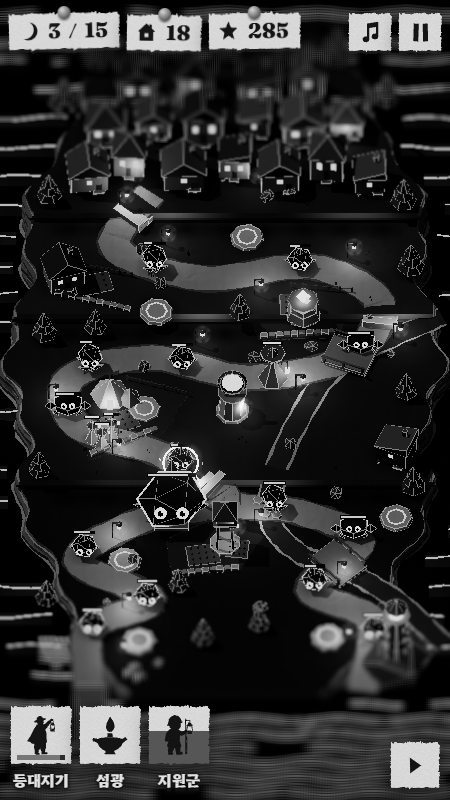
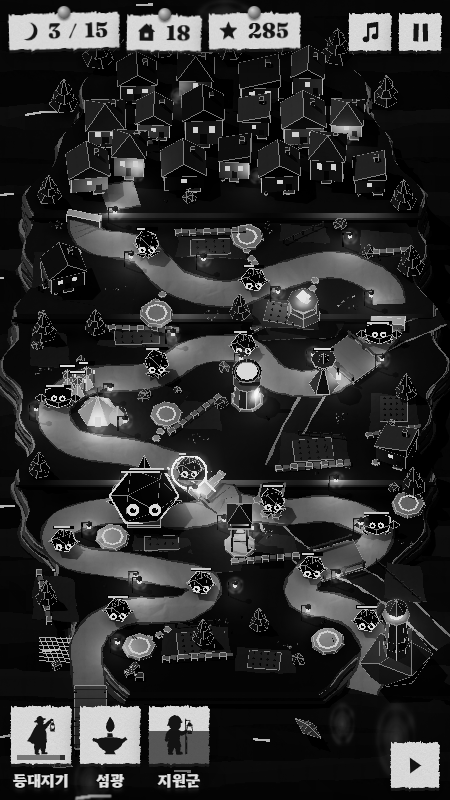
Stage 1 pass 3: navy folded-paper sea, tilt-shift only on the sea margins, ground detail, organic road, DESIGN.md section 3

diff --git a/src/board.js b/src/board.js
@@ -18,10 +18,10 @@ const C = { navy: 0x1d2742, navy2: 0x243050, navy3: 0x2a3757, field: 0x26384a, k
 const Z0 = -21.5, Z1 = 11.4, STEP = [0.8, -7.2, -12.2];                       // island from back to shore; the terraces rise at these lines
 const hAt = z => (z > STEP[0] ? 0 : z > STEP[1] ? 0.5 : z > STEP[2] ? 1.0 : 1.5);
 const halfW = z => { const t = clamp((z - Z0) / (Z1 - Z0)); return 8.5 * Math.pow(Math.sin(Math.PI * clamp(t * 0.93 + 0.035)), 0.4) * (1 + 0.045 * Math.sin(z * 0.85) + 0.03 * Math.sin(z * 2.3 + 1)); };
-const ROAD = [[0, 1.5], [-2.5, -0.5], [-6, -2], [-6.3, -4.5], [-3, -5.5], [1, -4.5], [5, -5.5], [6.3, -8], [3.5, -9.8], [-1, -9.2], [-4.5, -10.8], [-3, -13.2]];
-const ROUTES = [[[-5.5, 11.2], [-5.5, 8], [-3, 6.5], [-6, 4.5], [-3.5, 2.5], ...ROAD], [[5.6, 11.2], [6, 7.6], [3.5, 6], [5.5, 3.5], [3, 2], ...ROAD]];
+const ROAD = [[0, 1.5], [-1.2, 0.4], [-3.6, -0.6], [-6.2, -1.2], [-7.0, -2.9], [-5.6, -4.3], [-3.0, -4.6], [-1.2, -5.8], [0.8, -5.9], [2.2, -4.4], [4.2, -4.3], [5.4, -5.6], [6.6, -7.0], [6.4, -8.9], [4.4, -9.9], [2.0, -9.2], [0.2, -8.4], [-2.0, -9.0], [-3.4, -10.6], [-5.4, -11.2], [-5.6, -12.6], [-3.6, -13.2]];
+const ROUTES = [[[-5.5, 11.2], [-5.6, 8.6], [-4.2, 7.2], [-1.6, 6.9], [-0.9, 5.6], [-3.4, 4.9], [-6.4, 4.2], [-6.6, 2.6], [-4.2, 1.9], [-1.6, 2.2], ...ROAD], [[5.6, 11.2], [6.2, 9], [5.2, 7.2], [3.2, 6.4], [3.6, 5.0], [5.6, 4.2], [6.2, 2.9], [4.4, 1.9], [2.2, 2.0], ...ROAD]];
 const CREEK = [[8.9, -7.4], [5.2, -5.6], [3.2, -2.8], [1.8, 1.75], [2.9, 4.0], [4.55, 4.75], [6.9, 6.4], [9, 8.8]];
-const SPOTS = [[-3.5, 8.6], [4.2, 8.4], [-4.1, 4.5], [7.0, 2.3], [0, 3.6], [-3.3, -2.9], [-4.7, -3.6], [0.3, -2.8], [3.2, -7.4], [0.9, -11.3], [-2.8, -7.5]];
+const SPOTS = [[-3.5, 8.9], [4.2, 8.6], [-4.6, 3.3], [7.5, 1.6], [0.6, 3.7], [-2.4, -2.6], [-5.2, -2.7], [0.9, -3.4], [3.2, -7.4], [0.9, -11.3], [-2.8, -7.4]];
 const BUILT = { 4: 'archer', 6: 'barracks', 7: 'lens', 8: 'beacon' };
 const POSTS = [[-4.4, 9.3], [-4.2, 6.9], [-4.6, 3.3], [4.8, 8.6], [4.6, 5.3], [1.2, 2.6], [-1.4, 0.9], [-4.6, -0.6], [-7.2, -3.4], [-1.2, -6.2], [2.9, -3.9], [6.9, -6.5], [5.0, -10.3], [1.2, -8.4], [-2.6, -11.0], [-4.3, -12.6]];
 const spline = (pts, n = 8) => { const o = []; for (let i = 0; i < pts.length - 1; i++) { const p0 = pts[Math.max(0, i - 1)], p1 = pts[i], p2 = pts[i + 1], p3 = pts[Math.min(pts.length - 1, i + 2)];
@@ -32,7 +32,7 @@ export async function createStage(frame, SHAPES) {
   const renderer = new THREE.WebGLRenderer({ antialias: true, powerPreference: 'high-performance' });
   renderer.shadowMap.enabled = true; renderer.shadowMap.type = THREE.PCFSoftShadowMap; renderer.toneMapping = THREE.ACESFilmicToneMapping; renderer.toneMappingExposure = 1.0;
   frame.prepend(renderer.domElement);
-  const scene = new THREE.Scene(); scene.background = new THREE.Color(0x05070f);
+  const scene = new THREE.Scene(); scene.background = new THREE.Color(0x18274a);
   const camera = new THREE.OrthographicCamera(-HALF_W, HALF_W, 16, -16, 1, 200);
   const TL = new THREE.TextureLoader(), tex = (url, srgb, rep) => new Promise((res, rej) => TL.load(url, t => { t.wrapS = t.wrapT = THREE.RepeatWrapping; t.repeat.set(rep, rep); if (srgb) t.colorSpace = THREE.SRGBColorSpace; t.anisotropy = 8; res(t); }, undefined, rej));
   const [paper, paperN, pLight] = await Promise.all([tex('./assets/paper/Paper001_Color.jpg', true, 2.2), tex('./assets/paper/Paper003_NormalGL.jpg', false, 0.5), tex('./assets/particles/light_01.png', true, 1)]);
@@ -79,11 +79,13 @@ export async function createStage(frame, SHAPES) {
   const creek = spline(CREEK, 10); ribbon(creek, 0.5, 0.02, paperFlat(C.creamD), 3); ribbon(creek, 0.4, 0.03, paperFlat(C.water), 4);
   const lanes = ROUTES.map(r => spline(r, 9)), roadMat = paperFlat(C.road), underMat = paperFlat(C.kraftD);
   for (const L of lanes) ribbon(L, 0.7, 0.045, underMat, 21); for (const L of lanes) ribbon(L, 0.62, 0.055, roadMat, 22);
+  const nearRoad = (x, z) => { let d = 9; for (const L of lanes) for (let i = 0; i < L.length; i += 2) d = Math.min(d, Math.hypot(L[i][0] - x, L[i][1] - z)); return d; };
+  const POSTS2 = []; lanes.forEach((L, li) => { for (let i = 7 + li * 5; i < (li ? 80 : L.length - 3); i += 13) { const a = L[i - 1], b = L[i + 1], d = Math.hypot(b[0] - a[0], b[1] - a[1]) || 1, s = (Math.round(i / 13) % 2 ? 1 : -1) * 1.0; POSTS2.push([L[i][0] - (b[1] - a[1]) / d * s, L[i][1] + (b[0] - a[0]) / d * s]); } });
   const along = (L, i) => { const a = L[Math.max(0, i - 1)], b = L[Math.min(L.length - 1, i + 1)]; return Math.atan2(b[0] - a[0], b[1] - a[1]); };
   { const done = new Set(); for (const L of lanes) for (let i = 1; i < L.length; i++) for (const b of STEP) if ((L[i - 1][1] - b) * (L[i][1] - b) < 0) { const key = Math.round(L[i][0] * 10) + ':' + b; if (done.has(key)) continue; done.add(key); const g = group(L[i][0], b, along(L, i), 0), up = hAt(b - 0.3), lo = hAt(b + 0.3);   // stairs: folded steps across the road
         for (let s = 0; s < 4; s++) piece(G.box(1.36, (up - lo) / 4 * (s + 1), 0.3), C.cream, 0, lo + (up - lo) / 8 * (s + 1) + 0.03, 0.75 - s * 0.3, { to: g, rim: 0.5, crumple: 0.015 }); } }
   const bridge = (x, z, ry) => { const g = group(x, z, ry, lift(z)); piece(G.box(1.5, 0.12, 1.9), C.kraft, 0, 0.2, 0, { to: g }); for (const s of [-1, 1]) { piece(G.box(0.07, 0.07, 1.9), C.wood, s * 0.72, 0.56, 0, { to: g, fold: false }); for (const q of [-0.85, 0, 0.85]) piece(G.box(0.09, 0.42, 0.09), C.wood, s * 0.72, 0.4, q, { to: g, fold: false }); } ao(x, z, 2.4, 2.4, lift(z)); };
-  bridge(5.1, -5.55, 1.2); bridge(4.6, 4.75, 0.75);
+  bridge(5.15, -5.3, 0.75); bridge(4.6, 4.6, 1.95);
   for (const [dx, dz] of [[-0.45, -0.3], [0, 0.05], [0.42, -0.1], [-0.15, 0.4], [0.3, 0.45]]) piece(G.cyl(0.2, 0.24, 0.1, 6), C.stone, 1.8 + dx, 0.09, 1.75 + dz, { r: [0, r0() * 3, 0] });   // the ford: stepping stones
   const ringMat = new THREE.MeshBasicMaterial({ color: new THREE.Color(1.1, 0.62, 0.2), transparent: true, opacity: 0.85 }), rings = [];
   SPOTS.forEach(([x, z], i) => { const y = hAt(z); piece(G.cyl(0.62, 0.7, 0.09, 8), C.creamD, x, y + 0.05, z, { r: [0, i * 0.5, 0] }); ao(x, z, 2.2); if (BUILT[i]) return; const r = new THREE.Mesh(new THREE.RingGeometry(0.36, 0.45, 8), ringMat); r.rotation.x = -Math.PI / 2; r.position.set(x, y + 0.105, z); scene.add(r); rings.push(r); });
@@ -96,14 +98,14 @@ export async function createStage(frame, SHAPES) {
     piece(new THREE.PlaneGeometry(w * 0.18, h * 0.42), pm(C.wood), w * (lit === 1 ? 0.26 : 0), h * 0.22, d / 2 + 0.011, { to: g, cast: false }); piece(G.box(w * 0.3, 0.06, 0.16), C.stone, w * (lit === 1 ? 0.26 : 0), 0.03, d / 2 + 0.09, { to: g });
     if (r0() < 0.6) { piece(G.cyl(0.06, 0.05, 0.09, 5), C.verm, -w * 0.38, 0.05, d / 2 + 0.12, { to: g }); piece(G.ico(0.07), C.leaf2, -w * 0.38, 0.14, d / 2 + 0.12, { to: g, fold: false }); }   // a flower pot by the door
     ao(x, z, w * 2.1, d * 2.3); return g; };
-  const tree = (x, z, s = 1) => { const g = group(x, z, r0() * 3); piece(G.cyl(0.05 * s, 0.07 * s, 0.34 * s, 5), C.wood, 0, 0.17 * s, 0, { to: g, fold: false }); for (let i = 0; i < 3; i++) piece(G.cone((0.46 - i * 0.11) * s, 0.56 * s, 6), i % 2 ? C.leaf2 : C.leaf, 0, (0.56 + i * 0.33) * s, 0, { to: g, r: [0, i * 0.5, 0], crumple: 0.04 }); ao(x, z, 1.3 * s); };
+  const tree = (x, z, s = 1) => { if (nearRoad(x, z) < 1.0) return; const g = group(x, z, r0() * 3); piece(G.cyl(0.05 * s, 0.07 * s, 0.34 * s, 5), C.wood, 0, 0.17 * s, 0, { to: g, fold: false }); for (let i = 0; i < 3; i++) piece(G.cone((0.46 - i * 0.11) * s, 0.56 * s, 6), i % 2 ? C.leaf2 : C.leaf, 0, (0.56 + i * 0.33) * s, 0, { to: g, r: [0, i * 0.5, 0], crumple: 0.04 }); ao(x, z, 1.3 * s); };
   const bush = (x, z, s = 0.25) => piece(G.ico(s), C.leaf, x, hAt(z) + s * 0.5, z, { s: [1.2, 0.7, 1], r: [r0(), r0() * 3, 0], crumple: 0.04 });
   const rock = (x, z, s) => piece(G.ico(s), C.slate, x, hAt(z) + s * 0.4, z, { s: [1.1, 0.65, 0.9], r: [r0(), r0() * 3, r0()], crumple: 0.05 });
   const tuft = (x, z) => { for (let i = 0; i < 3; i++) piece(G.cone(0.05, 0.2, 3), C.leaf2, x + (r0() - 0.5) * 0.2, hAt(z) + 0.1, z + (r0() - 0.5) * 0.2, { fold: false, cast: false, r: [(r0() - 0.5) * 0.5, r0() * 3, (r0() - 0.5) * 0.5] }); };
-  const wall = (x0, z0, x1, z1) => { const n = Math.round(Math.hypot(x1 - x0, z1 - z0) / 0.3); for (let i = 0; i <= n; i++) { const t = i / n; piece(G.box(0.26, 0.16 + r0() * 0.07, 0.2), C.stone, x0 + (x1 - x0) * t, hAt(z0) + 0.09, z0 + (z1 - z0) * t, { r: [0, Math.atan2(x1 - x0, z1 - z0) + Math.PI / 2 + (r0() - 0.5) * 0.3, 0], fold: i % 2 === 0, crumple: 0.03 }); } };
+  const wall = (x0, z0, x1, z1) => { const n = Math.round(Math.hypot(x1 - x0, z1 - z0) / 0.3); for (let i = 0; i <= n; i++) { const t = i / n; if (nearRoad(x0 + (x1 - x0) * t, z0 + (z1 - z0) * t) < 0.85) continue; piece(G.box(0.26, 0.16 + r0() * 0.07, 0.2), C.stone, x0 + (x1 - x0) * t, hAt(z0) + 0.09, z0 + (z1 - z0) * t, { r: [0, Math.atan2(x1 - x0, z1 - z0) + Math.PI / 2 + (r0() - 0.5) * 0.3, 0], fold: i % 2 === 0, crumple: 0.03 }); } };
   const fence = (x0, z0, x1, z1) => { const n = Math.round(Math.hypot(x1 - x0, z1 - z0) / 0.5), ry = Math.atan2(x1 - x0, z1 - z0), y = hAt(z0); for (let i = 0; i <= n; i++) piece(G.box(0.05, 0.32, 0.05), C.wood, x0 + (x1 - x0) * i / n, y + 0.16, z0 + (z1 - z0) * i / n, { fold: false });
     piece(G.box(0.03, 0.04, Math.hypot(x1 - x0, z1 - z0)), C.wood, (x0 + x1) / 2, y + 0.24, (z0 + z1) / 2, { r: [0, ry, 0], fold: false }); };
-  const plot = (x, z, w, d, ry) => { const g = group(x, z, ry); piece(G.box(w, 0.04, d), C.kraftD, 0, 0.03, 0, { to: g }); for (let i = 0; i < 4; i++) for (let j = 0; j < Math.round(d / 0.28); j++) piece(G.cone(0.06, 0.13, 4), C.leaf2, (i - 1.5) * w * 0.22, 0.11, (j + 0.5) * 0.28 - d / 2, { to: g, fold: false, cast: false }); };
+  const plot = (x, z, w, d, ry) => { if (nearRoad(x, z) < 0.75 + Math.max(w, d) / 2) return; const g = group(x, z, ry); piece(G.box(w, 0.04, d), C.kraftD, 0, 0.03, 0, { to: g }); for (let i = 0; i < 4; i++) for (let j = 0; j < Math.round(d / 0.28); j++) piece(G.cone(0.06, 0.13, 4), C.leaf2, (i - 1.5) * w * 0.22, 0.11, (j + 0.5) * 0.28 - d / 2, { to: g, fold: false, cast: false }); };
   // village on the top terraces: houses of different sizes and roofs, close together, with alleys between
   const HC = [C.cream, C.creamD, C.kraft, C.cream], RC = [C.slate, C.verm, C.kraftD, C.navy3];
   [[-5.6, -13.9, 1.5, 1.0, 1.2, 0.1, 0], [-3.9, -14.6, 1.2, 1.5, 1.1, -0.06, 1], [-1.7, -14.0, 1.6, 1.0, 1.2, 0.05, 0], [0.4, -14.5, 1.2, 1.2, 1.1, -0.04, 2], [2.2, -13.9, 1.5, 1.1, 1.2, 0.06, 0], [4.2, -14.4, 1.3, 1.6, 1.1, -0.08, 1], [5.9, -13.8, 1.2, 0.9, 1.1, 0.04, 2],
@@ -114,9 +116,17 @@ export async function createStage(frame, SHAPES) {
     for (let i = 1; i < 6; i++) piece(G.box(0.02, 0.2 + (i % 2) * 0.06, 0.2), [C.cream, C.verm, C.creamD][i % 3], x0 + (x1 - x0) * i / 6, y - 0.12, z0 + (z1 - z0) * i / 6, { r: [0, ry, 0], fold: false }); }
   for (const [x, z] of [[-3.6, -13.6], [1.3, -13.5], [4.9, -15.5], [-1.9, -17.6]]) lamp(x, hAt(z) + 0.8, z, 3.4, 4.2);                                         // window light on the village streets
   for (const [x, z, s] of [[-7.2, -12.9, 1.1], [7.3, -12.6, 1.2], [-6.6, -17.6, 1.3], [6.6, -17.9, 1.2], [-5.2, -19.9, 1.4], [0.2, -20.3, 1.3], [4.6, -20.1, 1.4], [-2.6, -20.4, 1.2], [2.4, -20.6, 1.1], [-7.4, -6.6, 1.1], [7.6, -9.6, 1.2], [-7.6, 0.4, 1.0], [7.7, 0.9, 1.1], [-7.3, 6.6, 1.0], [1.4, 7.9, 0.9], [-0.9, 8.6, 1.0], [7.4, -3.6, 1.0], [-1.9, 5.9, 0.9], [0.6, -7.3, 1.0], [-5.3, -6.9, 1.0]]) tree(x, z, s);
-  wall(-2.0, 5.2, 0.4, 4.9); wall(-5.4, -0.6, -2.9, -1.8); wall(1.6, -6.6, 4.4, -6.8); wall(-6.8, -8.4, -4.0, -7.6); fence(-2.3, 3.5, -0.7, 2.6); fence(-1.5, -3.6, -4.0, -4.4); fence(2.7, -8.8, 5.2, -8.5); fence(-6.7, -10.0, -3.8, -9.3);
-  plot(-0.9, 4.2, 1.3, 1.0, 0.15); plot(0.5, 3.9, 0.9, 0.9, -0.1); plot(-4.3, -2.2, 1.4, 1.0, 0.4); plot(3.0, -7.9, 1.5, 1.0, 0.05); plot(-5.4, -8.9, 1.5, 1.0, 0.25);
-  for (let i = 0; i < 46; i++) { const z = Z0 + 1.5 + r0() * (Z1 - Z0 - 3), x = (r0() * 2 - 1) * (halfW(z) - 0.9); (i % 3 ? tuft : i % 2 ? bush : (a, b) => rock(a, b, 0.14 + r0() * 0.16))(x, z); }
+  const stones = (x0, z0, x1, z1) => { const n = Math.round(Math.hypot(x1 - x0, z1 - z0) / 0.42); for (let i = 0; i <= n; i++) { const x = x0 + (x1 - x0) * i / n + (r0() - 0.5) * 0.12, z = z0 + (z1 - z0) * i / n + (r0() - 0.5) * 0.12; if (nearRoad(x, z) > 0.7) piece(G.cyl(0.15, 0.17, 0.05, 6), C.creamD, x, hAt(z) + 0.03, z, { r: [0, r0() * 3, 0], cast: false, crumple: 0.02 }); } };
+  const flowers = (x, z) => { if (nearRoad(x, z) < 1.0) return; for (let i = 0; i < 9; i++) { const a = r0() * 6.283, d = r0() * 0.5; piece(G.oct(0.055), [C.creamD, C.verm, C.cream][i % 3], x + Math.cos(a) * d, hAt(z) + 0.07, z + Math.sin(a) * d * 0.8, { fold: false, cast: false, crumple: 0 }); } };
+  const GRASS = 0x304a52, CROP = 0x4a4436;
+  for (const [x, z, w, d, s] of [[-1.2, 8.6, 2.6, 1.8, 41], [1.6, 9.6, 2.2, 1.4, 42], [-7.0, 6.4, 1.6, 2.4, 43], [7.3, 5.6, 1.4, 2.0, 44], [2.0, 3.6, 1.6, 1.2, 45], [-2.6, 3.6, 2.2, 1.0, 46], [3.6, -0.8, 2.6, 1.8, 47], [-1.2, -2.6, 1.8, 1.6, 48], [6.9, -2.6, 1.8, 2.2, 49], [-3.6, -6.6, 3.0, 1.2, 50], [-7.2, -6.0, 1.4, 2.0, 51], [2.4, -7.4, 2.4, 1.6, 52], [-0.6, -10.8, 2.6, 1.2, 53], [6.6, -11.0, 2.0, 1.4, 54], [-7.0, -9.6, 1.6, 2.0, 55], [3.2, -11.5, 1.8, 1.0, 56]])
+    patch([[x - w / 2, z - d / 2], [x + w / 2, z - d / 2 + 0.2], [x + w / 2 + 0.2, z + d / 2], [x - w / 2 - 0.1, z + d / 2 - 0.15]], s % 3 ? GRASS : CROP, s);
+  wall(-2.4, 9.6, 0.2, 9.4); wall(0.4, 4.6, 2.9, 4.3); wall(-7.6, 5.2, -7.2, 7.6); wall(2.2, 0.2, 5.0, -0.1); wall(-2.2, -1.7, -0.3, -3.4); wall(5.9, -1.5, 7.9, -1.9); wall(-5.2, -7.0, -2.0, -6.9); wall(1.2, -6.9, 3.6, -8.3); wall(-1.9, -11.5, 0.7, -11.6); wall(5.6, -10.4, 7.6, -10.6);
+  fence(-2.0, 7.9, -0.4, 7.7); fence(3.0, -1.6, 4.8, -1.4); fence(-7.6, -8.6, -6.4, -10.6); fence(2.4, -11.0, 4.0, -11.9); fence(6.2, 4.6, 8.0, 6.6);
+  plot(-1.2, 8.7, 1.5, 1.1, 0.1); plot(1.6, 9.6, 1.3, 0.9, -0.1); plot(-2.6, 3.6, 1.4, 0.7, 0.05); plot(3.6, -0.8, 1.6, 1.1, 0.1); plot(6.9, -2.9, 1.1, 1.3, 0); plot(-3.6, -6.6, 1.8, 0.8, 0.05); plot(2.4, -7.4, 1.5, 1.0, -0.2); plot(-0.6, -10.8, 1.6, 0.8, 0.05); plot(-7.0, -9.4, 1.0, 1.3, 0.1);
+  stones(-2.4, 8.0, -3.4, 8.8); stones(0.6, 3.0, 0.4, 2.2); stones(-2.4, -2.0, -3.0, -1.1); stones(-5.2, -3.4, -5.5, -4.0); stones(1.0, -4.0, 1.6, -4.6); stones(3.2, -8.0, 3.9, -9.4); stones(0.9, -10.6, 1.4, -9.6); stones(-2.8, -8.0, -2.4, -8.8); stones(7.0, -1.2, 6.2, -0.2); stones(-6.6, -9.9, -5.8, -10.9);
+  for (const [x, z] of [[-0.2, 7.8], [2.6, 8.9], [-7.2, 3.4], [7.6, 3.6], [1.9, 3.0], [-1.0, -1.4], [4.6, -2.4], [-7.4, -4.9], [-0.4, -7.2], [5.0, -8.0], [-4.4, -8.6], [1.8, -11.9], [7.0, -9.6], [-6.9, -11.9]]) flowers(x, z);
+  for (let i = 0; i < 90; i++) { const z = Z0 + 1.5 + r0() * (Z1 - Z0 - 3), x = (r0() * 2 - 1) * (halfW(z) - 0.9); if (nearRoad(x, z) > 0.9) (i % 3 ? tuft : i % 2 ? bush : (a, b) => rock(a, b, 0.14 + r0() * 0.16))(x, z); }
   // harbour: a pier, rowboats on the water, lobster traps, a net laid out to dry
   { const g = group(-5.5, 12.6, 0, 0); piece(G.box(1.3, 0.1, 3.2), C.kraft, 0, 0.12, 0, { to: g }); for (const [x, z] of [[-0.6, -1.3], [0.6, -1.3], [-0.6, 0.2], [0.6, 0.2], [-0.6, 1.5], [0.6, 1.5]]) piece(G.box(0.1, 0.7, 0.1), C.wood, x, -0.15, z, { to: g, fold: false }); for (let i = 0; i < 7; i++) piece(G.box(1.32, 0.012, 0.03), C.kraftD, 0, 0.18, -1.4 + i * 0.47, { to: g, fold: false, cast: false }); }
   const boat = (x, z, ry) => { const g = group(x, z, ry, -0.32); piece(G.oct(0.5), C.kraft, 0, 0.12, 0, { to: g, s: [0.62, 0.42, 1.5] }); piece(G.box(0.5, 0.03, 0.1), C.creamD, 0, 0.2, -0.2, { to: g, fold: false }); piece(G.box(0.5, 0.03, 0.1), C.creamD, 0, 0.2, 0.25, { to: g, fold: false }); };
@@ -138,7 +148,7 @@ export async function createStage(frame, SHAPES) {
     beacon: g => { piece(G.cyl(0.62, 0.74, 0.42, 6), C.stone, 0, 0.26, 0, { to: g }); piece(G.cyl(0.5, 0.58, 0.2, 6), C.creamD, 0, 0.56, 0, { to: g }); piece(G.cyl(0.62, 0.34, 0.26, 8), C.kraftD, 0, 0.8, 0, { to: g }); piece(G.oct(0.3), FLAME, 0, 1.2, 0, { to: g, s: [1, 1.6, 1] }); piece(G.oct(0.18), glow(1.8, 0.7, 0.2), 0.14, 1.06, 0.12, { to: g, s: [1, 1.5, 1] }); return [0, 1.2, 0.1]; },
   };
   for (const [i, t] of Object.entries(BUILT)) { const [x, z] = SPOTS[i], g = group(x, z), p = TW[t](g); lamp(x + p[0], hAt(z) + p[1], z + p[2], 4.6, 4.2); }
-  for (const [x, z] of POSTS) { const g = group(x, z); piece(G.box(0.06, 1.0, 0.06), C.wood, 0, 0.5, 0, { to: g, fold: false }); piece(G.box(0.34, 0.05, 0.05), C.wood, 0.14, 1.0, 0, { to: g, fold: false }); piece(G.cyl(0.1, 0.1, 0.24, 6), AMBER, 0.28, 0.8, 0, { to: g }); piece(G.cone(0.14, 0.09, 6), C.verm, 0.28, 0.97, 0, { to: g, fold: false }); lamp(x + 0.28, hAt(z) + 0.78, z + 0.05, 4.2, 3.6); }
+  for (const [x, z] of POSTS2) { const g = group(x, z); piece(G.box(0.06, 1.0, 0.06), C.wood, 0, 0.5, 0, { to: g, fold: false }); piece(G.box(0.34, 0.05, 0.05), C.wood, 0.14, 1.0, 0, { to: g, fold: false }); piece(G.cyl(0.1, 0.1, 0.24, 6), AMBER, 0.28, 0.8, 0, { to: g }); piece(G.cone(0.14, 0.09, 6), C.verm, 0.28, 0.97, 0, { to: g, fold: false }); lamp(x + 0.28, hAt(z) + 0.78, z + 0.05, 4.2, 3.6); }
 
   // ---------- units: black paper, round amber eyes, a thin pale rim; exaggerated about 1.5x against the houses ----------
   const EYE = glow(1.55, 0.86, 0.22), PUPIL = new THREE.MeshBasicMaterial({ color: 0x120e1c }), GLINT = new THREE.MeshBasicMaterial({ color: 0xfff6e0 }), RIM = new THREE.MeshBasicMaterial({ color: new THREE.Color(0.62, 0.68, 0.86), side: THREE.BackSide });
@@ -162,26 +172,27 @@ export async function createStage(frame, SHAPES) {
     ['crab', 1, 0.2, 0, 1], ['crab', 0, 0.46, 0.05, 0.75], ['crab', 0, 0.7, 0, 0.9], ['octo', 1, 0.27, 0.05, 1], ['octo', 0, 0.52, -0.05, 0.6], ['octo', 0, 0.9, 0.05, 0.4]]) { const [x, z] = on(lane, f, off); put(k, x, z, hp); }
   { const [x, z] = on(0, 0.27, 0); put('boss', x, z, 0.85); }
   { const [x, z] = on(0, 0.64, 0.1); put('hero', x, z, 0.9, true); lamp(x + 0.7, lift(z) + 0.85, z + 0.2, 5, 3.6); }
-  { const [x, z] = on(0, 0.415, 0); [[-0.4, 0.1], [0.38, -0.05], [0, 0.42]].forEach(([dx, dz], i) => put('soldier', x + dx, z + dz, i === 1 ? 0.6 : 1, true)); }
+  { let x = 0, z = 0, bd = 99; for (const q of lanes[0]) { const d = Math.hypot(q[0] - SPOTS[6][0], q[1] - SPOTS[6][1]); if (d < bd) { bd = d; x = q[0]; z = q[1]; } } [[-0.4, 0.1], [0.38, -0.05], [0, 0.42]].forEach(([dx, dz], i) => put('soldier', x + dx, z + dz, i === 1 ? 0.6 : 1, true)); }
   // one hit caught in mid-air: the pop ring, scraps and the burning arrow (the brightest things on the board)
   { const [x, z] = on(0, 0.36, -0.1), y = lift(z), g = group(x, z + 0.1, 0, y), white = new THREE.MeshBasicMaterial({ color: new THREE.Color(1.9, 1.8, 1.5), side: THREE.DoubleSide });
     piece(new THREE.RingGeometry(0.66, 0.75, 28), white, 0, 0.7, 0.25, { to: g, r: [FACE, 0, 0] });
     for (let i = 0; i < 9; i++) { const a = i / 9 * 6.283, c = [glow(1.6, 0.42, 0.18), glow(1.7, 1.0, 0.28), glow(1.7, 1.6, 1.25)][i % 3]; c.side = THREE.DoubleSide; piece(new THREE.CircleGeometry(0.09, 5), c, Math.cos(a) * 0.9, 0.75 + Math.sin(a) * 0.7, 0.3, { to: g, r: [FACE + r0(), r0() * 3, r0() * 3] }); }
     const s = SPOTS[4], a = new THREE.Vector3(s[0], 2.0, s[1]), b = new THREE.Vector3(x, y + 0.7, z), mid = a.clone().lerp(b, 0.6), arrow = piece(G.box(0.06, 0.06, 0.9), glow(2.0, 1.25, 0.4), mid.x, mid.y, mid.z); arrow.lookAt(b); }
 
-  // ---------- sea: rows of folded paper strips; only the crest of each fold is cream ----------
+  // ---------- sea: deep navy paper folded into long bands that overlap and bob; cream only on the top of a fold; faint warm reflections ----------
   const waves = [];
-  { const sea = new THREE.Mesh(new THREE.PlaneGeometry(90, 90), grain(new THREE.MeshLambertMaterial({ color: 0x0c1424, map: paper }))); sea.rotation.x = -Math.PI / 2; sea.position.y = -0.62; sea.receiveShadow = true; scene.add(sea);
-    const crestMat = new THREE.MeshBasicMaterial({ color: new THREE.Color(0.5, 0.48, 0.41), map: paper, side: THREE.DoubleSide }), rw = rng(9), rowMat = [grain(new THREE.MeshLambertMaterial({ color: 0x2a3e5a, map: paper, flatShading: true, side: THREE.DoubleSide })), grain(new THREE.MeshLambertMaterial({ color: 0x223450, map: paper, flatShading: true, side: THREE.DoubleSide }))];
-    const row = (z, x0, x1, h) => { const pos = [], cp = [], g = new THREE.Group(); let gap = 0; for (let x = x0 + rw() * 0.5; x < x1; x += 0.55) { if (gap > 0) { gap--; continue; } if (rw() < 0.09) { gap = 1 + Math.floor(rw() * 3); continue; }   // strips of different lengths, not one line across the sea
-        const a = [x, h * (0.55 + 0.45 * Math.sin(x * 1.7 + z)) + rw() * 0.05], b = [x + 0.55, h * (0.55 + 0.45 * Math.sin((x + 0.55) * 1.7 + z)) + rw() * 0.05];
-        pos.push(a[0], 0, 0.34, b[0], 0, 0.34, a[0], a[1], 0, a[0], a[1], 0, b[0], 0, 0.34, b[0], b[1], 0, a[0], a[1], 0, b[0], b[1], 0, a[0], 0, -0.3, a[0], 0, -0.3, b[0], b[1], 0, b[0], 0, -0.3); cp.push(a[0], a[1] + 0.012, 0.05, b[0], b[1] + 0.012, 0.05, a[0], a[1] + 0.012, -0.04, a[0], a[1] + 0.012, -0.04, b[0], b[1] + 0.012, 0.05, b[0], b[1] + 0.012, -0.04); }
+  { const sea = new THREE.Mesh(new THREE.PlaneGeometry(90, 90), grain(new THREE.MeshLambertMaterial({ color: 0x18274a, map: paper }))); sea.rotation.x = -Math.PI / 2; sea.position.y = -0.95; scene.add(sea);
+    const NAVY = [0x1c2d52, 0x22355c, 0x192848, 0x263a62, 0x1e3056].map(col => grain(new THREE.MeshLambertMaterial({ color: col, map: paper, flatShading: true, side: THREE.DoubleSide }))), crestMat = new THREE.MeshBasicMaterial({ color: new THREE.Color(0.46, 0.44, 0.37), map: paper, side: THREE.DoubleSide });
+    let k = 0; for (let z = Z0 - 9; z < Z1 + 11; z += 1.45, k++) { const pos = [], cp = [], g = new THREE.Group(), ph = k * 2.3, H = x => 0.1 + 0.34 * Math.pow(Math.max(0, Math.sin(x * 0.55 + ph) * 0.6 + Math.sin(x * 1.3 + ph * 2) * 0.4), 1.4), ZO = x => Math.sin(x * 0.35 + ph) * 0.35;
+      for (let x = -14; x < 14; x += 0.7) { const x1 = x + 0.7, a = [x, H(x), ZO(x)], b = [x1, H(x1), ZO(x1)];
+        pos.push(a[0], 0, a[2] + 0.95, b[0], 0, b[2] + 0.95, a[0], a[1], a[2], a[0], a[1], a[2], b[0], 0, b[2] + 0.95, b[0], b[1], b[2], a[0], a[1], a[2], b[0], b[1], b[2], a[0], 0, a[2] - 0.85, a[0], 0, a[2] - 0.85, b[0], b[1], b[2], b[0], 0, b[2] - 0.85);
+        if (a[1] > 0.3 && b[1] > 0.3) cp.push(a[0], a[1] + 0.012, a[2] + 0.07, b[0], b[1] + 0.012, b[2] + 0.07, a[0], a[1] + 0.012, a[2] - 0.05, a[0], a[1] + 0.012, a[2] - 0.05, b[0], b[1] + 0.012, b[2] + 0.07, b[0], b[1] + 0.012, b[2] - 0.05); }
       const uvOf = arr => { const u = []; for (let i = 0; i < arr.length; i += 3) u.push(arr[i] * 0.4, arr[i + 2] * 0.4 + arr[i + 1]); return u; };
-      const geo = new THREE.BufferGeometry(); geo.setAttribute('position', new THREE.Float32BufferAttribute(pos, 3)); geo.setAttribute('uv', new THREE.Float32BufferAttribute(uvOf(pos), 2)); geo.computeVertexNormals();
-      const cg = new THREE.BufferGeometry(); cg.setAttribute('position', new THREE.Float32BufferAttribute(cp, 3)); cg.setAttribute('uv', new THREE.Float32BufferAttribute(uvOf(cp), 2));
-      const m = new THREE.Mesh(geo, rowMat[z > 13 ? 1 : 0]); m.receiveShadow = true; g.add(m, new THREE.Mesh(cg, crestMat)); g.position.set(0, -0.6, z); scene.add(g); waves.push({ g, ph: z * 1.3, sp: 0.5 + rw() * 0.5 }); };
-    for (let z = Z1 + 0.9, i = 0; z < Z1 + 9; z += 0.75, i++) row(z, -12, 12, 0.3 + i * 0.012);
-    for (let z = Z0 - 6; z < Z1 + 0.5; z += 1.5) { const w = z < Z0 ? 0 : halfW(z) + 0.7; if (z >= Z0 && w < 11) { row(z, -12.5, -w - 0.2, 0.26); row(z, w + 0.2, 12.5, 0.26); } if (z < Z0 - 0.8) row(z + 0.7, -12, 12, 0.26); } }
+      const geo = new THREE.BufferGeometry(); geo.setAttribute('position', new THREE.Float32BufferAttribute(pos, 3)); geo.setAttribute('uv', new THREE.Float32BufferAttribute(uvOf(pos), 2)); geo.computeVertexNormals(); const m = new THREE.Mesh(geo, NAVY[k % 5]); m.receiveShadow = true; g.add(m);
+      if (cp.length) { const cg = new THREE.BufferGeometry(); cg.setAttribute('position', new THREE.Float32BufferAttribute(cp, 3)); cg.setAttribute('uv', new THREE.Float32BufferAttribute(uvOf(cp), 2)); g.add(new THREE.Mesh(cg, crestMat)); }
+      g.position.set(0, -0.92, z); scene.add(g); waves.push({ g, ph: k * 1.3, sp: 0.45 + (k % 3) * 0.14 }); }
+    const refMat = new THREE.MeshBasicMaterial({ map: pLight, color: 0xff9a40, blending: THREE.AdditiveBlending, depthWrite: false, transparent: true, opacity: 0.1 });   // lantern and window light lying faintly on the water
+    for (const [x, z, w, d] of [[7.0, 13.4, 2.2, 5.0], [-5.5, 15.6, 1.8, 3.6], [-4.4, 12.6, 1.4, 2.6], [4.8, 12.6, 1.4, 2.8], [-9.9, -14.5, 1.6, 3.0], [9.9, -14.2, 1.6, 3.0], [9.9, -6.4, 1.3, 2.4], [-9.9, -3.6, 1.3, 2.4], [0, -23.6, 3.0, 2.4]]) { const m = new THREE.Mesh(new THREE.PlaneGeometry(w, d), refMat); m.rotation.x = -Math.PI / 2; m.position.set(x, -0.3, z); m.renderOrder = 2; scene.add(m); } }
 
   // ---------- light: the moon casts the shadows; everything warm is a point light ----------
   scene.add(new THREE.HemisphereLight(0x5c6890, 0x0c0e18, 1.2));
@@ -190,19 +201,20 @@ export async function createStage(frame, SHAPES) {
 
   // ---------- post: capped bloom, then tilt-shift (top and bottom of the picture soften, the middle stays sharp) ----------
   const composer = new EffectComposer(renderer); composer.addPass(new RenderPass(scene, camera)); const bloom = new UnrealBloomPass(new THREE.Vector2(256, 256), 0.26, 0.5, 0.92); composer.addPass(bloom);
-  const tilt = new ShaderPass({ uniforms: { tDiffuse: { value: null }, uPx: { value: new THREE.Vector2(1 / 450, 1 / 800) }, uAmt: { value: 2.6 } }, vertexShader: 'varying vec2 vUv; void main(){ vUv = uv; gl_Position = projectionMatrix * modelViewMatrix * vec4(position, 1.0); }',
-    fragmentShader: `uniform sampler2D tDiffuse; uniform vec2 uPx; uniform float uAmt; varying vec2 vUv; void main(){ float k = smoothstep(0.2, 0.5, abs(vUv.y - 0.52)) * uAmt; vec3 c = vec3(0.0); float n = 0.0;
+  const tilt = new ShaderPass({ uniforms: { tDiffuse: { value: null }, uPx: { value: new THREE.Vector2(1 / 450, 1 / 800) }, uAmt: { value: 1.3 }, uHi: { value: 2 }, uLo: { value: -1 } }, vertexShader: 'varying vec2 vUv; void main(){ vUv = uv; gl_Position = projectionMatrix * modelViewMatrix * vec4(position, 1.0); }',
+    fragmentShader: `uniform sampler2D tDiffuse; uniform vec2 uPx; uniform float uAmt, uHi, uLo; varying vec2 vUv; void main(){ float k = max(smoothstep(0.0, 0.07, vUv.y - uHi), smoothstep(0.0, 0.07, uLo - vUv.y)) * uAmt; vec3 c = vec3(0.0); float n = 0.0;
       for (int i = -3; i <= 3; i++) for (int j = -3; j <= 3; j++) { float w = 1.0 - length(vec2(float(i), float(j))) / 4.6; c += texture2D(tDiffuse, vUv + vec2(float(i), float(j)) * uPx * k).rgb * w; n += w; }
-      c /= n; float v = smoothstep(1.15, 0.35, length((vUv - 0.5) * vec2(0.9, 1.1))); gl_FragColor = vec4(c * mix(0.72, 1.0, v), 1.0); }` });
+      c /= n; float v = smoothstep(1.15, 0.35, length((vUv - 0.5) * vec2(0.9, 1.1))); gl_FragColor = vec4(c * mix(0.82, 1.0, v), 1.0); }` });
   composer.addPass(tilt); composer.addPass(new OutputPass());
   const basePR = Math.min(devicePixelRatio || 1, 2), FQ = new URLSearchParams(location.search), FW = +FQ.get('w') || 0, FH = +FQ.get('h') || 0; let W = 1, H = 1, scale = 1, baked = 0;   // ?w=390&h=844 pins the board size for the capture tool
   function resize() { H = FH || innerHeight; W = FW || Math.min(innerWidth, Math.round(H * 9 / 16)); frame.style.width = W + 'px'; frame.style.height = H + 'px'; renderer.setPixelRatio(basePR); renderer.setSize(W, H); composer.setPixelRatio(basePR * scale); composer.setSize(W, H); tilt.uniforms.uPx.value.set(1 / W, 1 / H);
-    const hh = HALF_W * H / W, zt = SEA_Z - (SEA_AT - 0.5) * 2 * hh / Math.sin(TILT); camera.top = hh; camera.bottom = -hh; camera.position.set(0, 80 * Math.sin(TILT), zt + 80 * Math.cos(TILT)); camera.lookAt(0, 0, zt); camera.updateProjectionMatrix(); camera.updateMatrixWorld(); baked = 0; }
-  addEventListener('resize', resize); resize();
-  const _v = new THREE.Vector3(), st = { freeze: 0, fps: 60, hold: true, dawn: 0, probe: false, luma: 0 };
+    const hh = HALF_W * H / W, zt = SEA_Z - (SEA_AT - 0.5) * 2 * hh / Math.sin(TILT); camera.top = hh; camera.bottom = -hh; camera.position.set(0, 80 * Math.sin(TILT), zt + 80 * Math.cos(TILT)); camera.lookAt(0, 0, zt); camera.updateProjectionMatrix(); camera.updateMatrixWorld(); baked = 0;
+    tilt.uniforms.uHi.value = _v.set(0, 4.2, Z0 - 0.6).project(camera).y * 0.5 + 0.5; tilt.uniforms.uLo.value = _v.set(0, -0.6, Z1 + 3.6).project(camera).y * 0.5 + 0.5; }   // top and bottom of the island on screen: nothing between them is ever blurred
+  const _v = new THREE.Vector3(); addEventListener('resize', resize); resize();
+  const st = { freeze: 0, fps: 60, hold: true, dawn: 0, probe: false, luma: 0 };
   const toScreen = (x, y, z) => { _v.set(x, y, z).project(camera); return { x: (_v.x * 0.5 + 0.5) * W, y: (-_v.y * 0.5 + 0.5) * H }; };
   function frameUpdate() { const t = performance.now() * 0.001;
-    for (const w of waves) { w.g.position.x = Math.sin(t * w.sp + w.ph) * 0.25; w.g.position.y = -0.6 + Math.sin(t * w.sp * 1.6 + w.ph) * 0.03; }
+    for (const w of waves) { w.g.position.x = Math.sin(t * w.sp + w.ph) * 0.25; w.g.position.y = -0.92 + Math.sin(t * w.sp * 1.6 + w.ph) * 0.05; }
     for (const a of lamps) a.l.intensity = a.power * (0.95 + 0.05 * Math.sin(t * 5 + a.ph));
     for (let i = 0; i < rings.length; i++) rings[i].scale.setScalar(1 + 0.07 * Math.sin(t * 2.6 + i));
     if (baked < 3) { moon.shadow.needsUpdate = true; baked++; }

diff --git a/DESIGN.md b/DESIGN.md
@@ -22,7 +22,7 @@
 ## 3. 카메라 (고정, 변경 금지)
 - 직교(orthographic) 카메라, 50~55도 내려다보기, 회전 없음
 - 1차 룩뎁보다 약 2배 멀리. 판 전체가 정교한 종이 디오라마·미니어처 모형을 내려다보는 것처럼 읽혀야 함
-- 지도가 화면을 채움, 바다는 아래 15% 이하. 9:16 / 19.5:9 / 20:9 모두 등대·길·설치 자리 전부 보임
+- 지도는 어두운 바다에 떠 있는 섬. 섬이 화면 폭을 채우고, 긴 화면에서는 바다가 섬을 사방으로 둘러싸도 됨. 9:16 / 19.5:9 / 20:9 모두 등대·길·설치 자리 전부 보임
 
 ## 4. 아트 (고정, 변경 금지)
 - 열쇠말: 미니어처, 정교함, 어른 취향, 차분함
